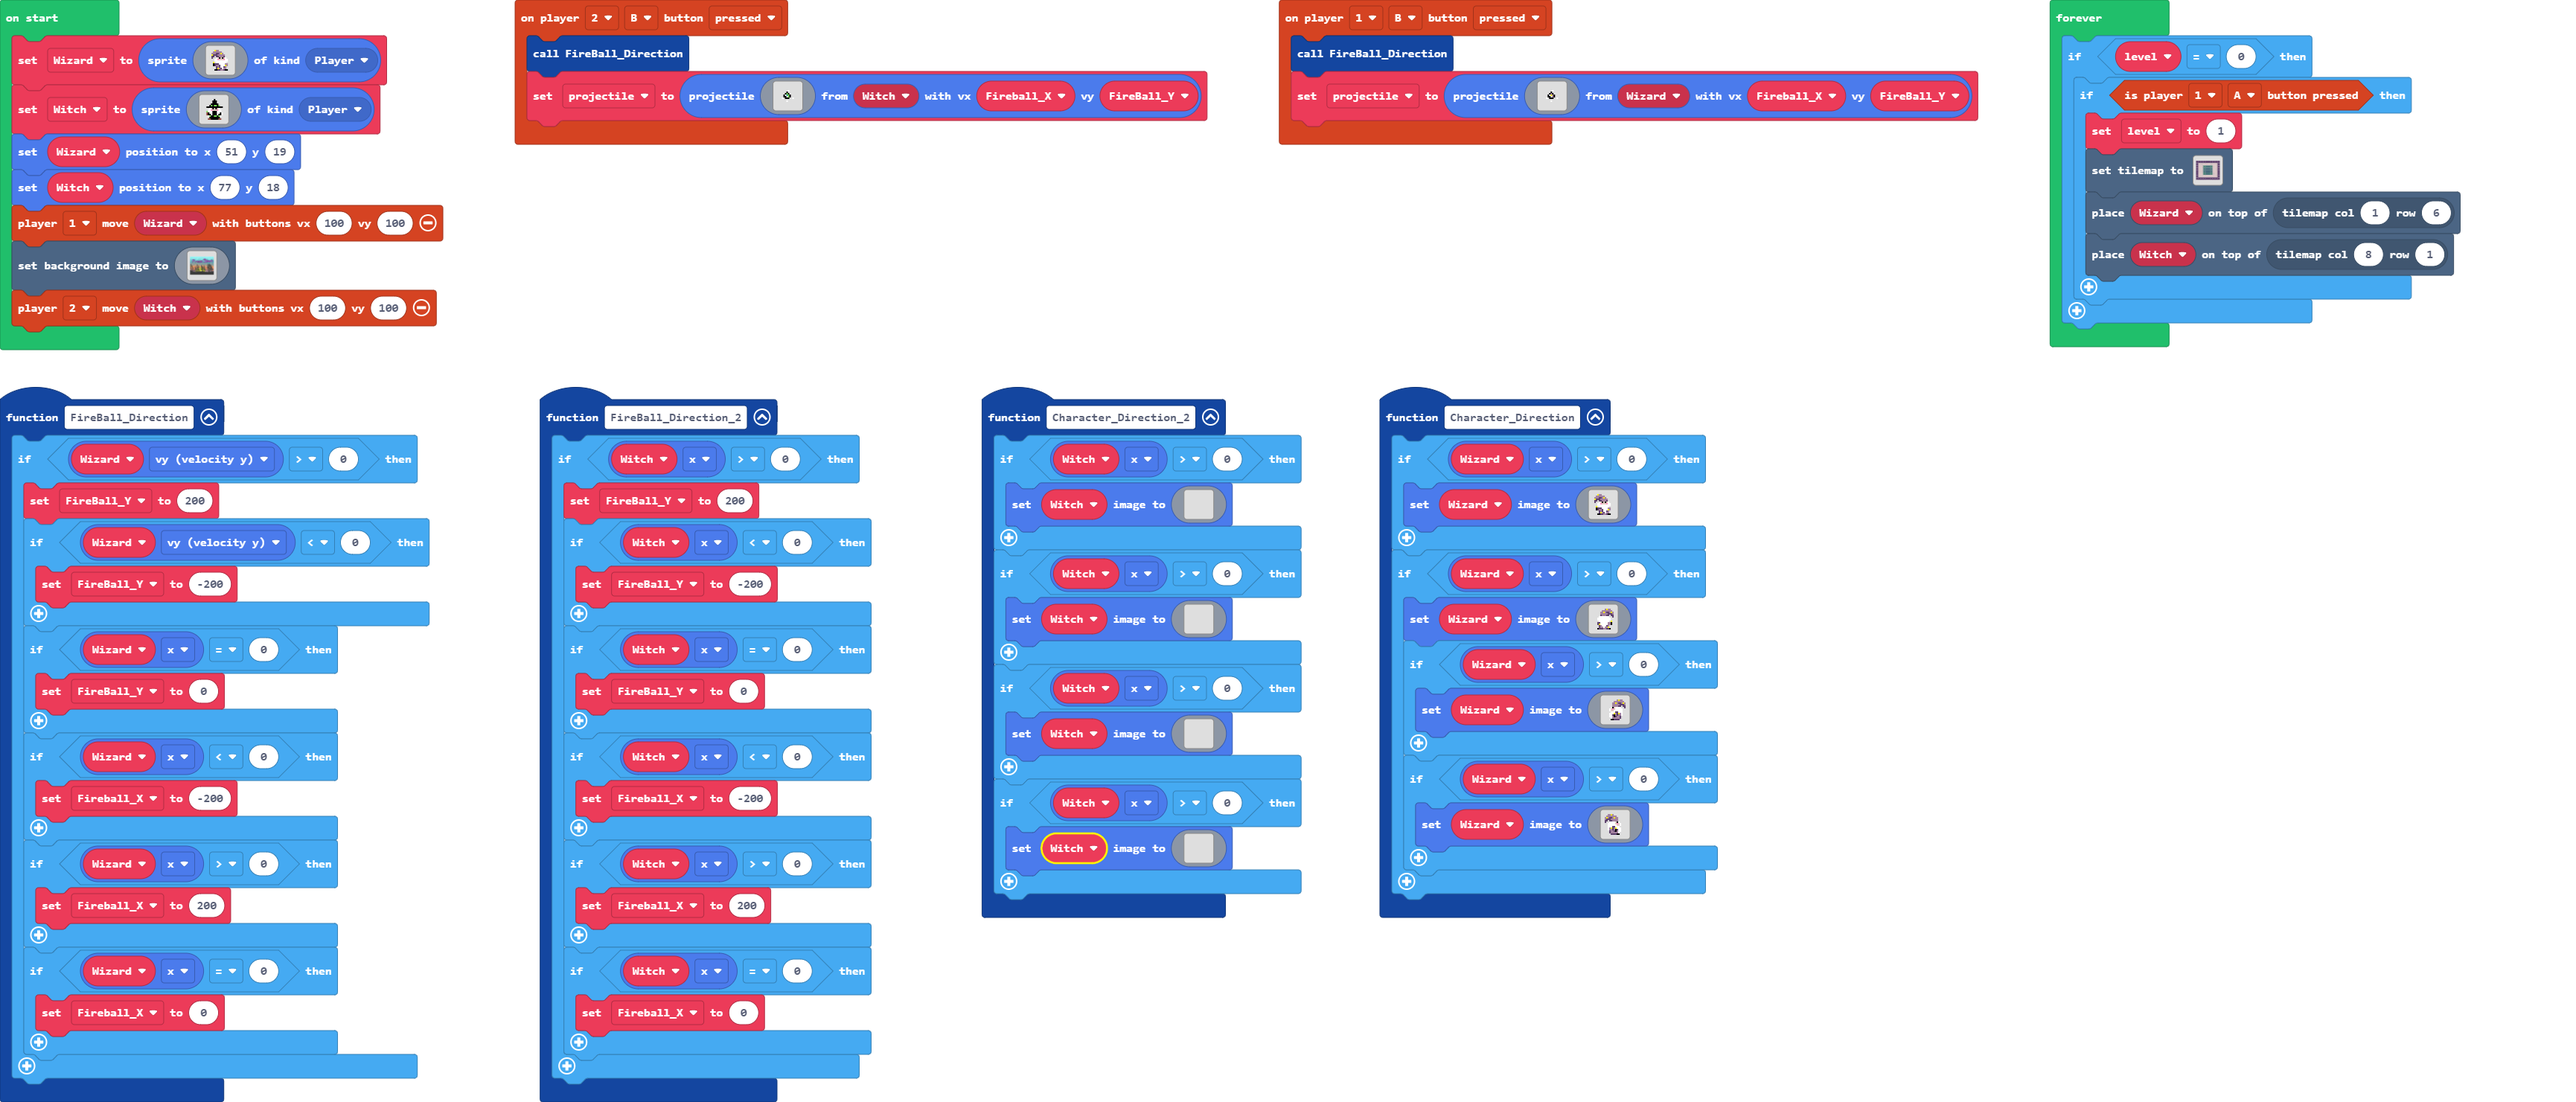
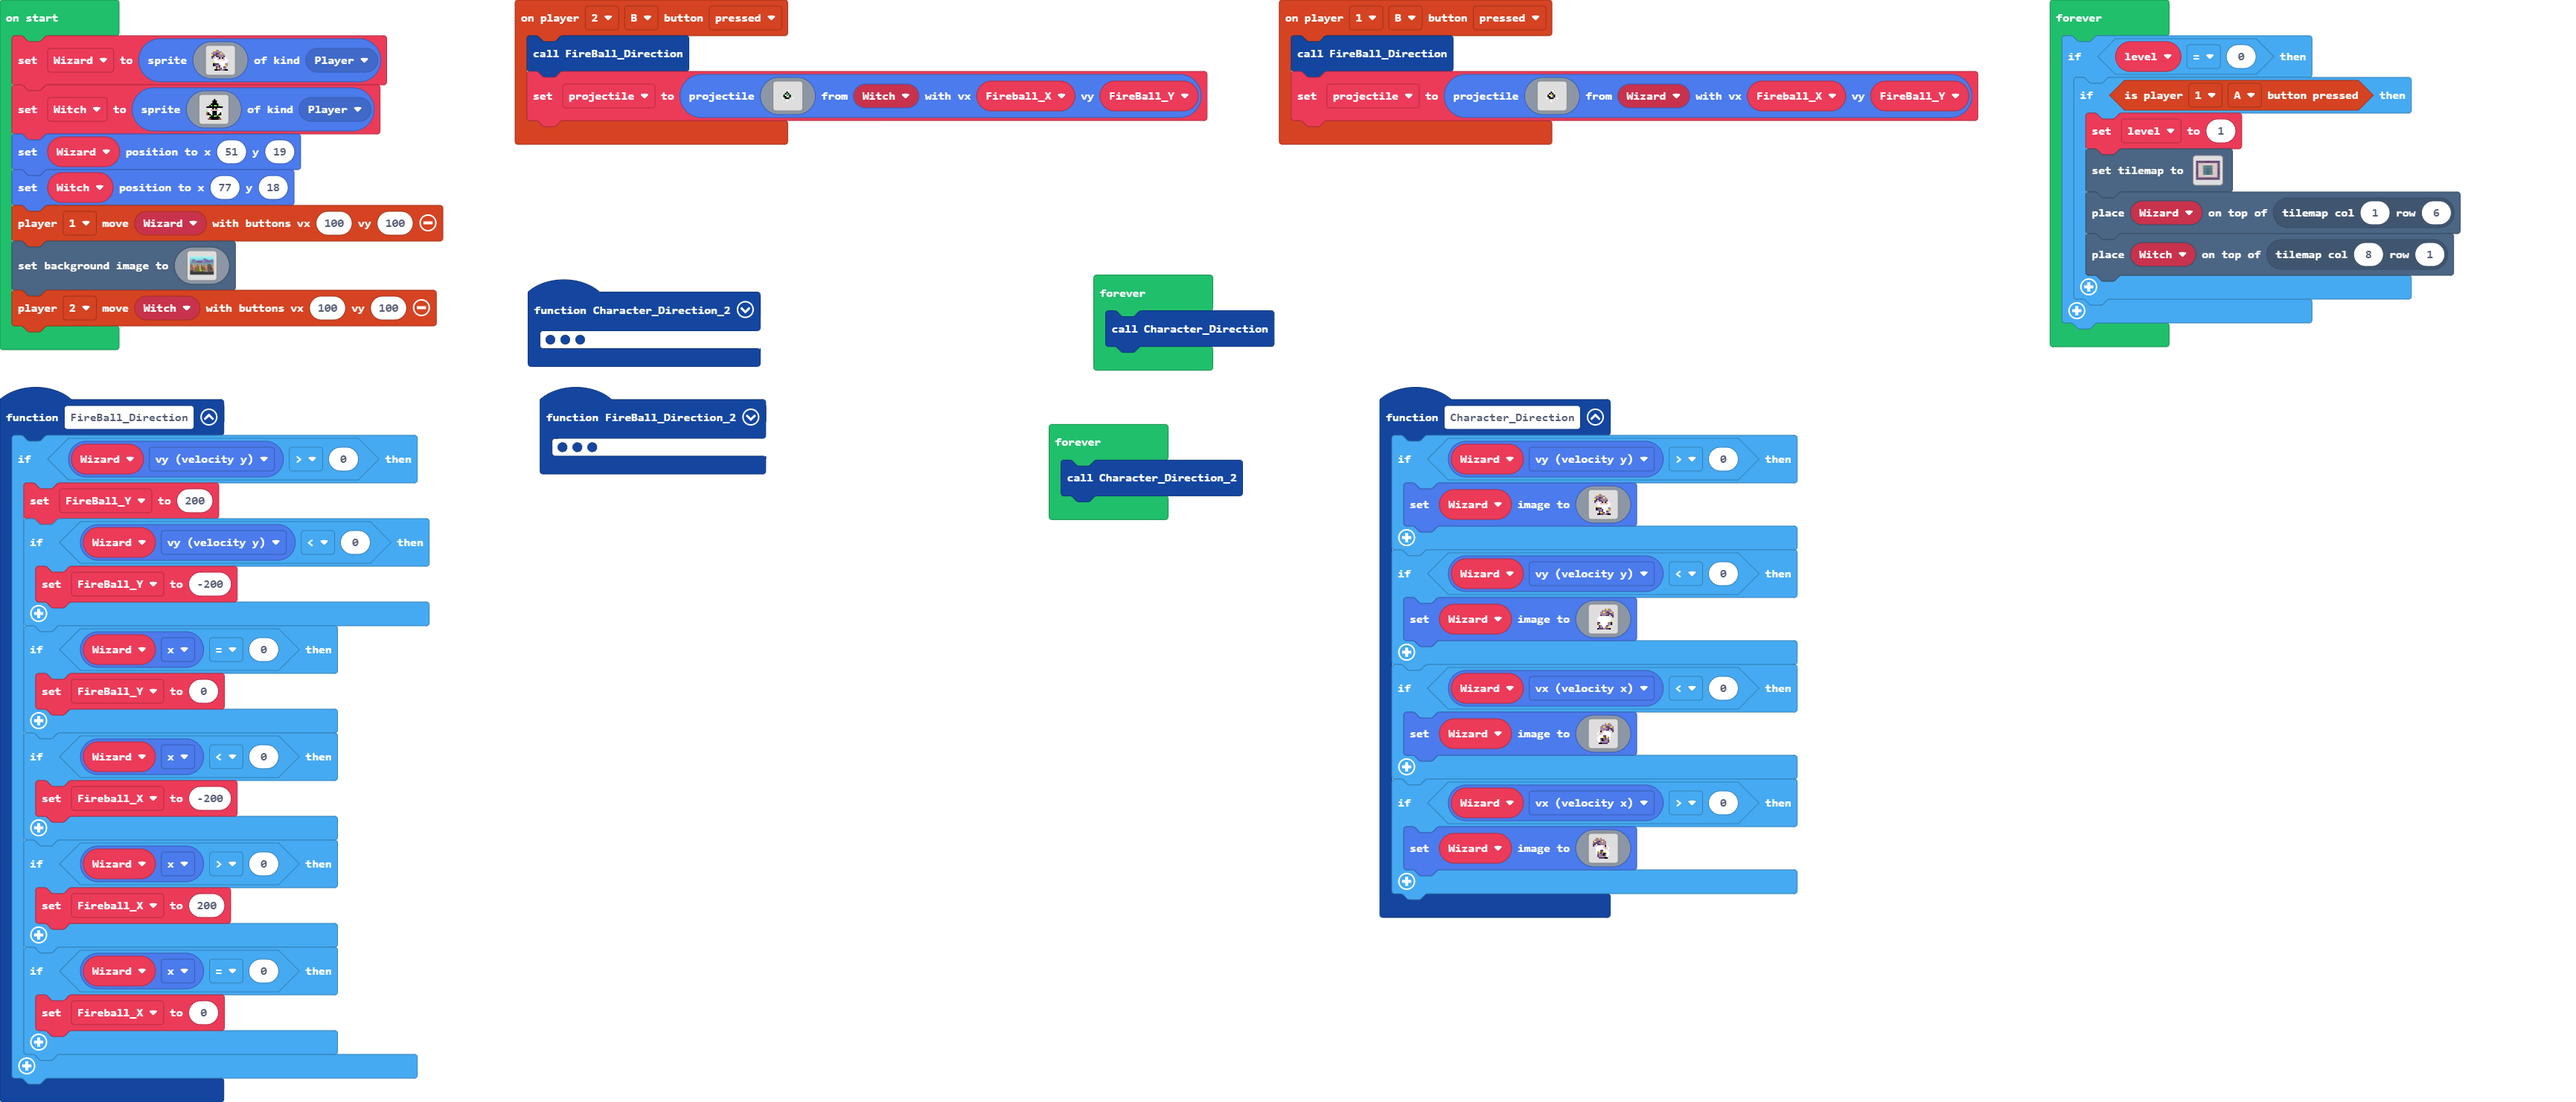
Update main.blocks, main.ts

Changed region(s): [[0.3745, 0.2485, 0.7177, 0.8386], [0.1872, 0.2485, 0.3433, 1.0]]

diff --git a/main.ts b/main.ts
@@ -163,7 +163,7 @@ controller.player1.onButtonEvent(ControllerButton.B, ControllerButtonEvent.Press
         `, Wizard, Fireball_X, FireBall_Y)
 })
 function Character_Direction () {
-    if (Wizard.x > 0) {
+    if (Wizard.vy > 0) {
         Wizard.setImage(img`
             . . . . . . . . . . . . . . . . 
             . . . . 5 b b . . . . . . . . . 
@@ -183,7 +183,7 @@ function Character_Direction () {
             . . . . . . . . . . . . . . . . 
             `)
     }
-    if (Wizard.x > 0) {
+    if (Wizard.vy < 0) {
         Wizard.setImage(img`
             . . . . . . . . . . . . . . . . 
             . . . . . . . . . b 5 b b . . . 
@@ -202,46 +202,46 @@ function Character_Direction () {
             . . . . f c c c b b c c f . . . 
             . . . . . . . . . . . . . . . . 
             `)
-        if (Wizard.x > 0) {
-            Wizard.setImage(img`
-                . . . . . . . . . . . . . . . . 
-                . . . . . . . . . b 5 b b . . . 
-                . . . . . . . b b b b b b b . . 
-                . . . . . . b b 5 b c c b 5 b . 
-                . . . . . . b b b b b c c c b . 
-                . . . . . . b b b b c c . c c . 
-                . . . . . 1 f d 1 1 1 1 . . c . 
-                . . . . 1 d 3 d 1 1 1 1 1 . . . 
-                . . . . 1 d d 1 1 1 1 1 1 . . . 
-                . . . . . 1 1 1 c c 1 1 1 . . . 
-                . . . . 1 1 1 5 b c 5 b 1 . . . 
-                . . . . 1 1 c f b c b b 1 . . . 
-                . . . . 1 1 b f c b b c . . . . 
-                . . . . . 1 b b b b b c . . . . 
-                . . . . . f f c c c c . . . . . 
-                . . . . . . . . . . . . . . . . 
-                `)
-        }
-        if (Wizard.x > 0) {
-            Wizard.setImage(img`
-                . . . . . . . . . . . . . . . . 
-                . . . b b 5 b . . . . . . . . . 
-                . . b b b b b b b . . . . . . . 
-                . b 5 b c c b 5 b b . . . . . . 
-                . b c c c b b b b b . . . . . . 
-                . c c . c c b b b b . . . . . . 
-                . c . . 1 1 1 1 d f 1 . . . . . 
-                . . . 1 1 1 1 1 d 3 d 1 . . . . 
-                . . . 1 1 1 1 1 1 d d 1 . . . . 
-                . . . 1 1 1 c c 1 1 1 . . . . . 
-                . . . 1 b 5 c b 5 1 1 1 . . . . 
-                . . . 1 b b c b f c 1 1 . . . . 
-                . . . . c b b c f b 1 1 . . . . 
-                . . . . c b b b b b 1 . . . . . 
-                . . . . . c c c c f f . . . . . 
-                . . . . . . . . . . . . . . . . 
-                `)
-        }
+    }
+    if (Wizard.vx < 0) {
+        Wizard.setImage(img`
+            . . . . . . . . . . . . . . . . 
+            . . . . . . . . . b 5 b b . . . 
+            . . . . . . . b b b b b b b . . 
+            . . . . . . b b 5 b c c b 5 b . 
+            . . . . . . b b b b b c c c b . 
+            . . . . . . b b b b c c . c c . 
+            . . . . . 1 f d 1 1 1 1 . . c . 
+            . . . . 1 d 3 d 1 1 1 1 1 . . . 
+            . . . . 1 d d 1 1 1 1 1 1 . . . 
+            . . . . . 1 1 1 c c 1 1 1 . . . 
+            . . . . 1 1 1 5 b c 5 b 1 . . . 
+            . . . . 1 1 c f b c b b 1 . . . 
+            . . . . 1 1 b f c b b c . . . . 
+            . . . . . 1 b b b b b c . . . . 
+            . . . . . f f c c c c . . . . . 
+            . . . . . . . . . . . . . . . . 
+            `)
+    }
+    if (Wizard.vx > 0) {
+        Wizard.setImage(img`
+            . . . . . . . . . . . . . . . . 
+            . . . b b 5 b . . . . . . . . . 
+            . . b b b b b b b . . . . . . . 
+            . b 5 b c c b 5 b b . . . . . . 
+            . b c c c b b b b b . . . . . . 
+            . c c . c c b b b b . . . . . . 
+            . c . . 1 1 1 1 d f 1 . . . . . 
+            . . . 1 1 1 1 1 d 3 d 1 . . . . 
+            . . . 1 1 1 1 1 1 d d 1 . . . . 
+            . . . 1 1 1 c c 1 1 1 . . . . . 
+            . . . 1 b 5 c b 5 1 1 1 . . . . 
+            . . . 1 b b c b f c 1 1 . . . . 
+            . . . . c b b c f b 1 1 . . . . 
+            . . . . c b b b b b 1 . . . . . 
+            . . . . . c c c c f f . . . . . 
+            . . . . . . . . . . . . . . . . 
+            `)
     }
 }
 let level = 0
@@ -421,4 +421,10 @@ forever(function () {
             tiles.placeOnTile(Witch, tiles.getTileLocation(8, 1))
         }
     }
+})
+forever(function () {
+    Character_Direction()
+})
+forever(function () {
+    Character_Direction_2()
 })
